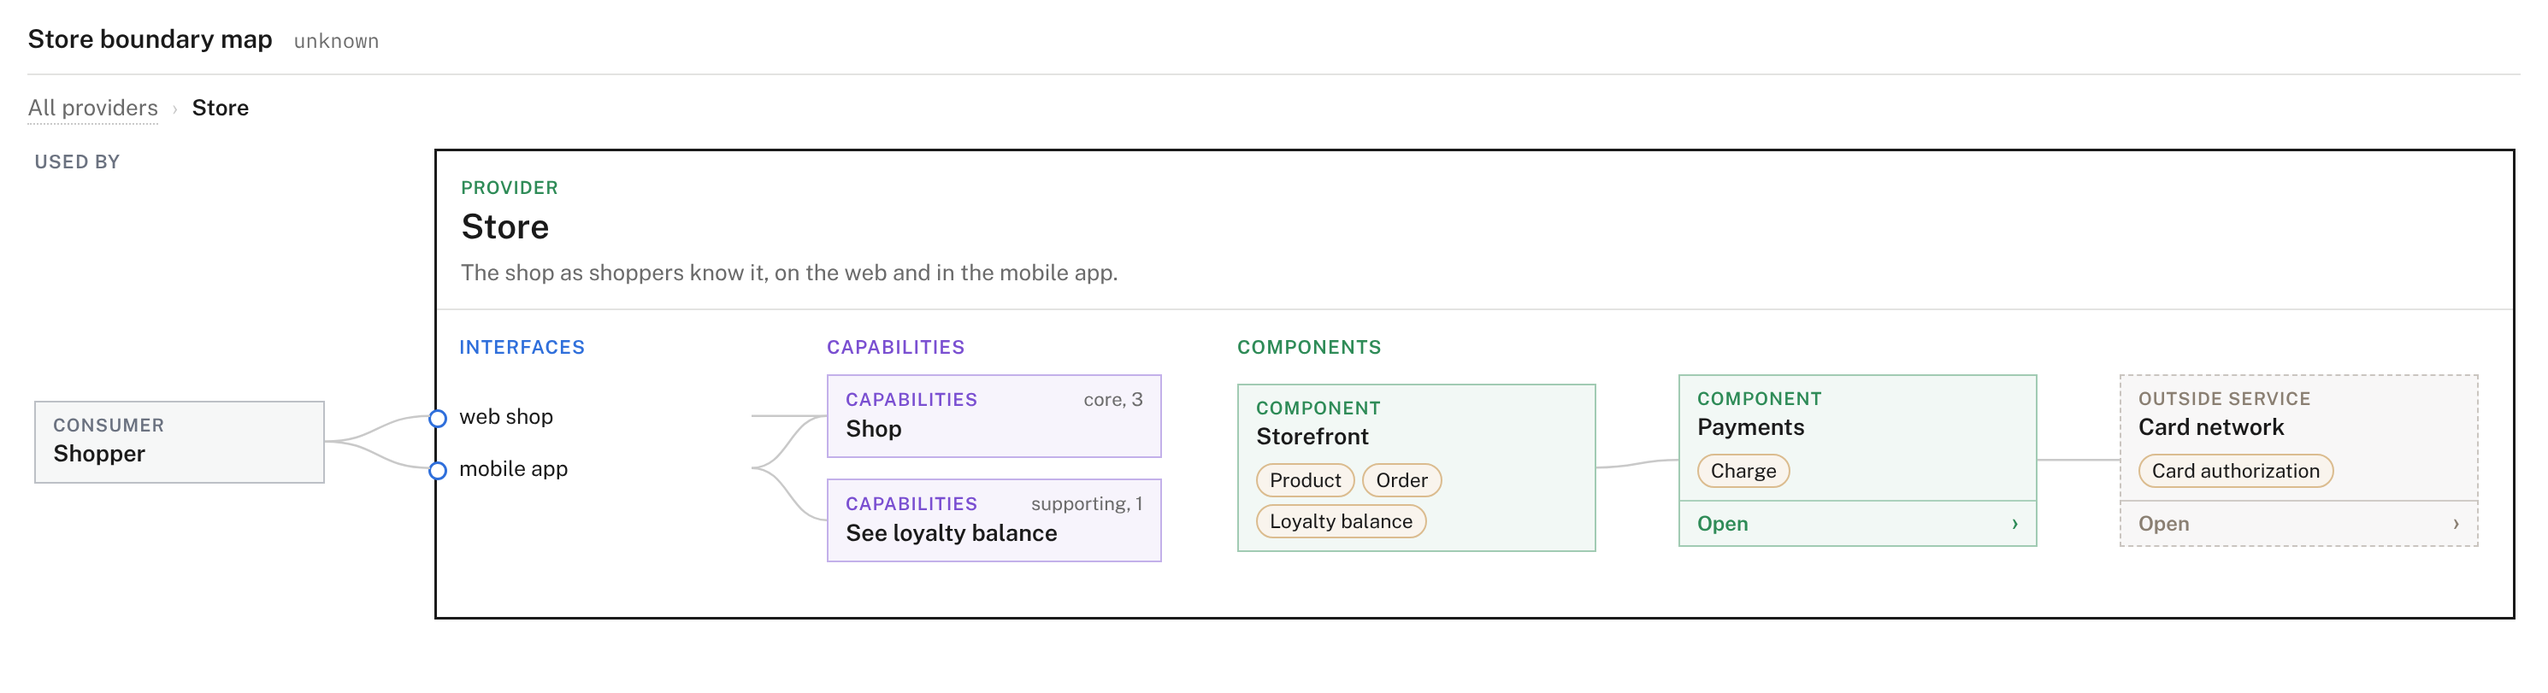
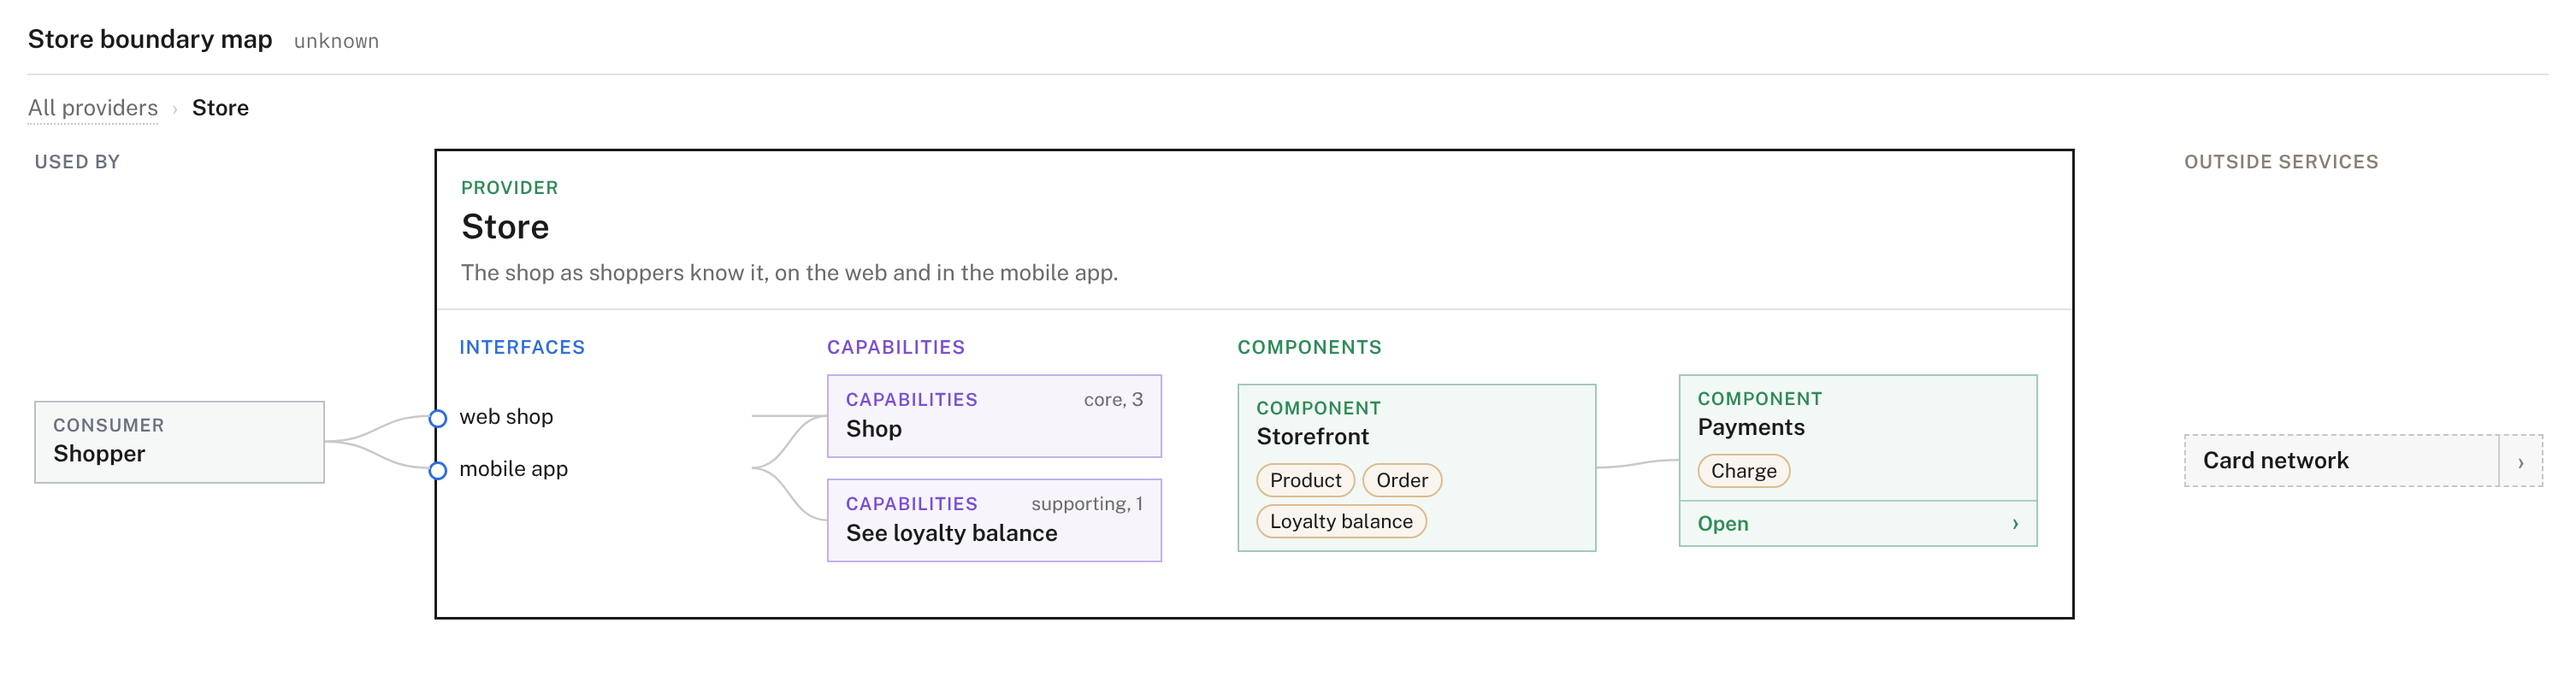
Show outside services in one last column, without lines
A screen drew an outside service only when the component calling it sat on the screen without components inside it. A service called from deeper inside a box did not show until the box was opened, so a screen showed an arbitrary part of what it relied on, and the boundary that the map format asks of the holding component was never drawn.

Every outside service that the open box or anything inside it uses now sits once in a last column, after the frame, as a one-line dashed box with no line to it. An outside service calls nothing on the screen, so a line said only who uses it: selecting a component lights the services it uses, and selecting a service lights the boxes that use it, with the inner component that calls it. The panel lists a service's resources, since its box no longer does, and the notes under a still image compared against an earlier map still say when a boundary with a service is new or changed.

Across 304 screens of 17 maps, no box and no line between components is lost. The busiest screens get shorter: the top screen of the LangChain draft map drops its column of 27 full service boxes inside the frame. The README image is taken again.

Claude-Session: https://claude.ai/code/session_013MdjUcenfMNKRdZ8ZsGD68

diff --git a/skills/visualize-boundaries/scripts/page.js b/skills/visualize-boundaries/scripts/page.js
@@ -194,11 +194,16 @@ function screenOf(name) {
   const inner = top ? [] : [...n.children, ...n.shared];
   const consumers = top ? RAW.consumers.map((c) => c.name) : unique(areas.flatMap((g) => g.consumers));
   const calls = top ? [] : boundaries.filter((b) => !refinedBy(b) && (b.consumer === name || inner.includes(b.consumer)));
-  // An outside service that a component inside calls sits with the components, in the column after
-  // its callers, so its links stay short; what the open box itself calls sits to the right of it.
-  const outside = unique(calls.filter((b) => inner.includes(b.consumer) && node(b.provider).kind === "outside").map((b) => b.provider));
-  const boxes = top ? RAW.providers.map((p) => p.name) : [...inner, ...outside];
-  const uses = unique(calls.filter((b) => !within(name).includes(b.provider) && !outside.includes(b.provider)).map((b) => b.provider));
+  // An outside service calls nothing on the screen, so every service that the open box or anything
+  // inside it uses sits once in a last column, without lines: a selection lights who uses what.
+  const isService = (b) => node(b.provider).kind === "outside";
+  const services = top
+    ? []
+    : RAW.outsideServices.map((o) => o.name).filter((o) => boundaries.some((b) => b.provider === o && within(name).includes(b.consumer)));
+  // The boxes on this screen that use each service, through anything inside them.
+  const usersOf = new Map(services.map((o) => [o, inner.filter((i) => boundaries.some((b) => b.provider === o && within(i).includes(b.consumer)))]));
+  const boxes = top ? RAW.providers.map((p) => p.name) : inner;
+  const uses = unique(calls.filter((b) => !within(name).includes(b.provider) && !isService(b)).map((b) => b.provider));
   // Each resource kept inside the open box goes in the box on this screen that holds its keeper.
   const holder = (k) => boxes.find((b) => subtree(b).includes(k)) ?? (!top && subtree(name).includes(k) ? name : null);
   const kept = new Map();
@@ -213,10 +218,14 @@ function screenOf(name) {
     columns: top ? [boxes] : columnsOf(boxes),
     boxes,
     uses,
-    visible: new Set([...consumers, ...boxes, ...uses]),
+    services,
+    usersOf,
+    visible: new Set([...consumers, ...boxes, ...uses, ...services]),
     kept,
     // What each component, or the open box, depends on among the boxes on this screen.
     links: calls.filter((b) => boxes.includes(b.provider) || uses.includes(b.provider)),
+    // The boundaries with the services on this screen, which have no line.
+    serviceLinks: calls.filter(isService),
   };
 }
 
@@ -380,12 +389,17 @@ function box(name, where) {
     key,
     el(
       "section",
-      { class: `b-box ${kindClass(name)}${n.kind === "provider" ? " provider" : ""}${canOpen ? " opens" : ""}`, onclick: pick(key), ondblclick: canOpen ? enter : null },
-      kindLine(shared ?? KIND_WORD[n.kind]),
+      { class: `b-box ${kindClass(name)}${n.kind === "provider" ? " provider" : ""}${canOpen ? " opens" : ""}${where === "service" ? " b-service" : ""}`, onclick: pick(key), ondblclick: canOpen ? enter : null },
+      // In the column of outside services, the column's heading says what each box is.
+      where !== "service" && kindLine(shared ?? KIND_WORD[n.kind]),
       el("button", { type: "button", class: "b-name", onclick: pick(key) }, name),
       note && el("span", { class: "b-via" }, noteOf(note)),
       where === "inside" && chips(screen.kept.get(name) ?? []),
-      canOpen && el("button", { type: "button", class: "b-go", onclick: enter }, el("span", {}, inner ? `Open, ${inner} components` : "Open"), el("span", {}, "›")),
+      // A service in the column of outside services takes one line: its name and the way in.
+      canOpen &&
+        (where === "service"
+          ? el("button", { type: "button", class: "b-go", title: `Open ${name}`, "aria-label": `Open ${name}`, onclick: enter }, el("span", {}, "›"))
+          : el("button", { type: "button", class: "b-go", onclick: enter }, el("span", {}, inner ? `Open, ${inner} components` : "Open"), el("span", {}, "›"))),
     ),
   );
 }
@@ -485,7 +499,8 @@ function render() {
   const left = zone("z-consumer b-left", "Used by", s.consumers.map((c) => box(c, "left")));
   const middle = s.top ? zone("z-component b-mid", "Providers", el("div", { class: "b-col b-placed" }, s.boxes.map((p) => box(p, "inside")))) : frame(openBox);
   const right = s.uses.length > 0 && zone("z-uses b-right", "Uses", s.uses.map((u) => box(u, "right")));
-  stage.append(wires, left, middle, ...[right].filter(Boolean));
+  const far = s.services.length > 0 && zone("z-outside b-right", "Outside services", s.services.map((o) => box(o, "service")));
+  stage.append(wires, left, middle, ...[right, far].filter(Boolean));
   document.getElementById("scroll").replaceChildren(stage);
   drawNav();
   if (selected && !reg.has(selected) && !selected.startsWith("c:")) {
@@ -579,6 +594,18 @@ function render() {
       return { el: reg.get(`b:${u}`), want: (ys.length ? avg(ys) : frameMid) - rt };
     });
     body.style.height = `${settle(items, 14)}px`;
+  }
+  // Each outside service sits level with the boxes that use it, or with the open box's body when
+  // only the open box itself does.
+  if (far) {
+    const body = far.querySelector(".b-zone-body");
+    const ft = mid(body).t;
+    const frameMid = mid(stage.querySelector(".b-body")).y;
+    const items = s.services.map((o) => {
+      const ys = s.usersOf.get(o).map((u) => mid(reg.get(`b:${u}`)).y);
+      return { el: reg.get(`b:${o}`), want: (ys.length ? avg(ys) : frameMid) - ft };
+    });
+    body.style.height = `${settle(items, 8)}px`;
   }
 
   wires.setAttribute("width", stage.scrollWidth);
@@ -723,6 +750,8 @@ function panelOf(key) {
   return [
     head(KIND_WORD[n.kind], kindClass(id), n.name),
     n.description && [n.kind === "consumer" ? null : el("h3", {}, "Responsibilities"), text("p", n.description)],
+    // A box in the column of outside services shows no resources, so the panel lists them.
+    s.services.includes(id) && n.resources.length > 0 && [el("h3", {}, "Keeps"), el("ul", { class: "b-props" }, n.resources.map((r) => el("li", {}, r)))],
     opens(id) && id !== openBox && el("button", { type: "button", class: "b-go wide", onclick: () => go(id) }, el("span", {}, `Open ${id}`), el("span", {}, "›")),
   ];
 }
@@ -856,7 +885,7 @@ function legendOf(s) {
   return el(
     "div",
     { class: "b-legend" },
-    section("On this screen", null, [...s.consumers, ...s.boxes, ...s.uses].map((n) => entry(n, node(n).description))),
+    section("On this screen", null, [...s.consumers, ...s.boxes, ...s.uses, ...s.services].map((n) => entry(n, node(n).description))),
     section("Interfaces", null, s.ports.map((p) => entry(p, interfaceText.get(p)))),
     s.areas.map((g) =>
       section(

diff --git a/skills/visualize-boundaries/scripts/compare.js b/skills/visualize-boundaries/scripts/compare.js
@@ -195,7 +195,7 @@
     const lines = [];
     const add = (state, html) => lines.push({ state, html });
     if (!s.top && ownState(openBox) === "changed") add("changed", `**${openBox}** changed: ${fields(openBox).join("; ")}.`);
-    for (const n of [...s.consumers, ...s.boxes, ...s.uses]) {
+    for (const n of [...s.consumers, ...s.boxes, ...s.uses, ...s.services]) {
       const st = ownState(n);
       if (st === "new") add("new", `**${n}** is new.`);
       else if (st === "changed") add("changed", `**${n}** changed: ${fields(n).join("; ")}.`);
@@ -221,7 +221,8 @@
       const st = ifaceState(p);
       if (st) add(st, `Interface **${p}** ${st === "new" ? "is new" : "changed its description"}.`);
     }
-    for (const b of s.links) {
+    // A boundary with an outside service has no line, so only these words say it changed.
+    for (const b of [...s.links, ...s.serviceLinks]) {
       const st = boundaryState(b.id);
       if (st === "new") add("new", `**${b.consumer} → ${b.provider}** is new: ${b.areas.flatMap((a) => a.capabilities.map((c) => c.name)).join(", ")}.`);
       else if (st === "changed")
@@ -271,7 +272,7 @@
     const legend = baseLegendOf(s);
     const lines = changesHere(s);
     const states = new Map();
-    for (const n of [...s.consumers, ...s.boxes, ...s.uses]) if (boxState(n)) states.set(n, boxState(n));
+    for (const n of [...s.consumers, ...s.boxes, ...s.uses, ...s.services]) if (boxState(n)) states.set(n, boxState(n));
     for (const p of s.ports) if (ifaceState(p)) states.set(p, ifaceState(p));
     for (const li of legend.querySelectorAll("li")) {
       const name = li.querySelector("strong")?.textContent;

diff --git a/skills/visualize-boundaries/scripts/page.css b/skills/visualize-boundaries/scripts/page.css
@@ -83,6 +83,7 @@ main { display: flex; min-height: 0; min-width: 0; }
 .z-component { --k: var(--k-component); }
 .z-resource { --k: var(--k-resource); }
 .z-uses { --k: var(--graphite); }
+.z-outside { --k: var(--k-outside); }
 .b-left > .b-zone-body { position: relative; width: 170px; }
 .b-left > .b-zone-body > .b-box { position: absolute; left: 0; width: 170px; }
 .b-col { display: flex; flex-direction: column; gap: 14px; }
@@ -129,6 +130,9 @@ main { display: flex; min-height: 0; min-width: 0; }
 .b-go { display: flex; justify-content: space-between; align-items: baseline; width: calc(100% + 20px); margin: 7px -10px -7px; padding: 4px 10px; font-size: 12px; font-weight: 600; color: var(--k); border-top: 1px solid color-mix(in srgb, var(--k) 40%, var(--paper)); }
 .b-go span:last-child { font-size: 15px; line-height: 1; }
 .b-go:hover { background: var(--k); color: var(--paper); }
+.b-service { display: flex; align-items: center; gap: 8px; padding-top: 5px; padding-bottom: 5px; }
+.b-service .b-name { flex: 1; }
+.b-service .b-go { width: auto; margin: -5px -10px -5px 0; padding: 5px 10px; align-self: stretch; align-items: center; border-top: 0; border-left: 1px solid color-mix(in srgb, var(--k) 40%, var(--paper)); }
 .b-go.wide { --k: var(--k-component); width: 100%; margin: 18px 0 0; padding: 6px 10px; font-size: 13px; border: 1px solid var(--k); }
 
 /* ---- interfaces: dots on the edge of the open box ---- */

diff --git a/skills/visualize-boundaries/SKILL.md b/skills/visualize-boundaries/SKILL.md
@@ -25,10 +25,10 @@ To show what changed since an earlier map, such as the one before an update or t
 Each screen shows one open box. Going to another screen replaces it, so every screen stays about as busy as the last.
 
 - **All providers**: each provider in a row with the consumers that use it. The page opens on the provider named after the system when there is one, and here otherwise.
-- **An open box**, a provider, a component or an outside service, is a frame with columns: who uses it, its interfaces as dots on its edge, its capabilities grouped by area, the components inside it, and what it uses. Each component sits level with the capabilities it handles. A component shared with another provider or component sits in both. An outside service that a component calls sits as a dashed box in the column after its callers.
-- Every box is coloured by kind and lists the resources it keeps. Plain lines join consumers to interfaces, interfaces to capabilities, and components to what they depend on.
+- **An open box**, a provider, a component or an outside service, is a frame with columns: who uses it, its interfaces as dots on its edge, its capabilities grouped by area, the components inside it, and what it uses. Each component sits level with the capabilities it handles. A component shared with another provider or component sits in both. The outside services that the box or anything inside it uses sit in a last column, each once, as one-line dashed boxes with no lines to them. Clicking a component lights the services it uses, and clicking a service lights the boxes that use it.
+- Every box is coloured by kind and lists the resources it keeps, except an outside service in the last column. Plain lines join consumers to interfaces, interfaces to capabilities, and components to the components and providers they depend on.
 - A box opens when its screen would show something of its own: components inside it, or capabilities it offers across a boundary of its own. Open, the bar at the foot of the box, goes inside. The box grows into the new frame while the boxes on both screens move to their new places.
-- Clicking a box, an area, an interface or a resource lights what it connects to: what it calls, what calls it, what it handles and what it keeps. A lit box whose inner components are not on the screen says what each of them does. The panel beside the map adds only what the map does not show: descriptions, capability lists, and a resource's properties.
+- Clicking a box, an area, an interface or a resource lights what it connects to: what it calls, what calls it, what it handles and what it keeps. A lit box whose inner components are not on the screen says what each of them does. The panel beside the map adds only what the map does not show: descriptions, capability lists, a resource's properties, and the resources an outside service keeps.
 - The path above the map keeps the way you came, and Back returns to the previous screen with its scroll and selection.
 
 ## Limits
